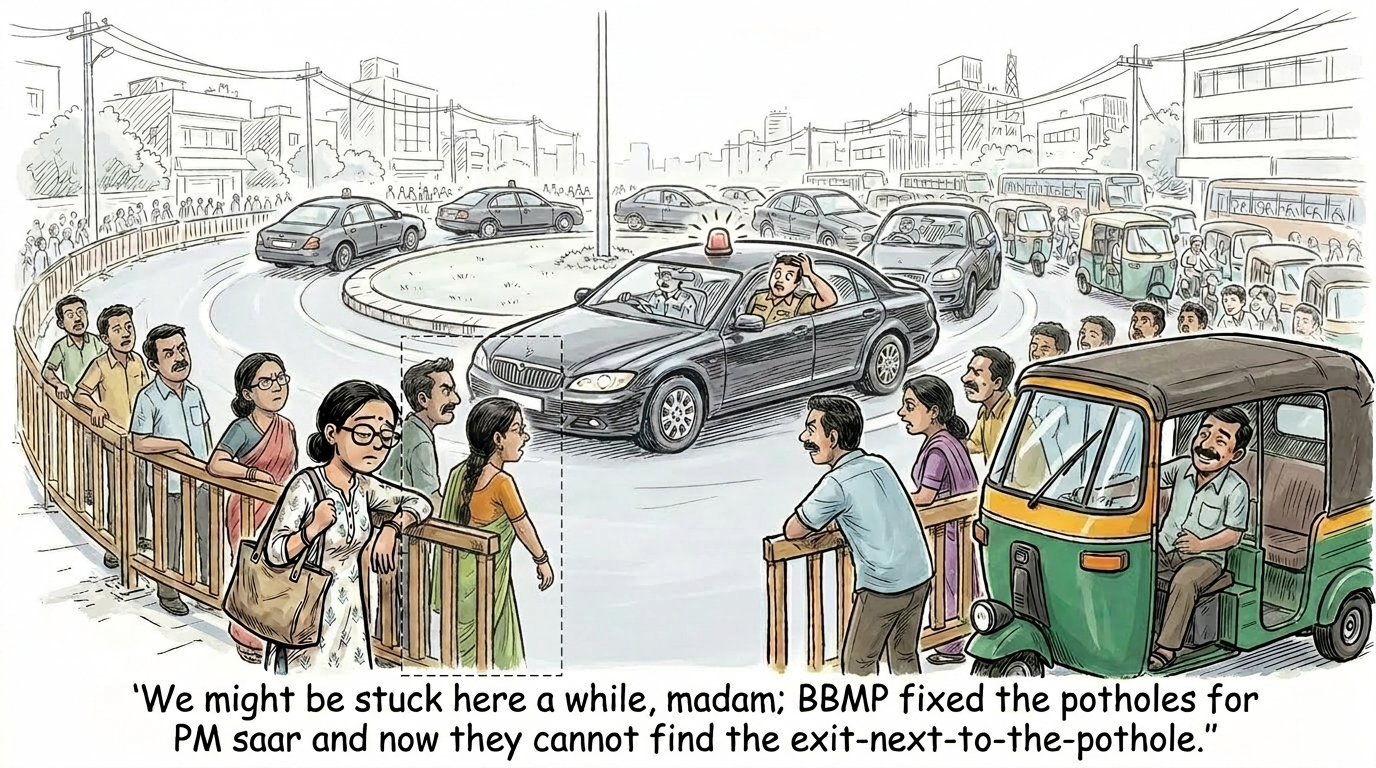
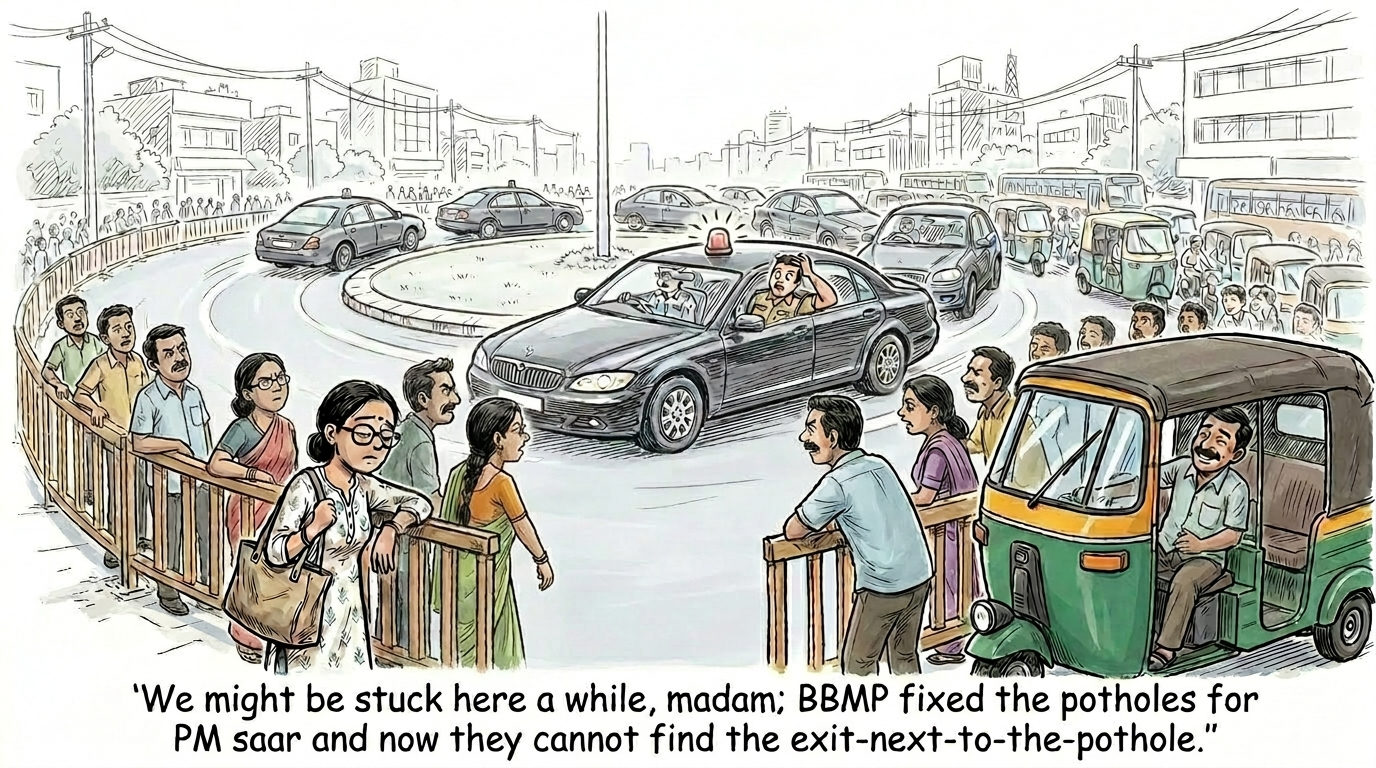
tat

diff --git a/_posts/2026-05-04-clean-energy-milestone.md b/_posts/2026-05-04-clean-energy-milestone.md
@@ -1,9 +1,11 @@
 ---
 layout: post
-title: "Clean energy milestone"
+title: "Clean energy"
 categories: bits
 date: 2026-05-04
 ---
+
+### Milestones
 
 1. The Ministry of New and Renewable Energy in India announced that 45 lakh households in India are now powered entirely by solar energy.
 2. In other news, The Cubbon Park Namma Metro station was temporarily shut today due to a significant power failure, leading to commuter delays.